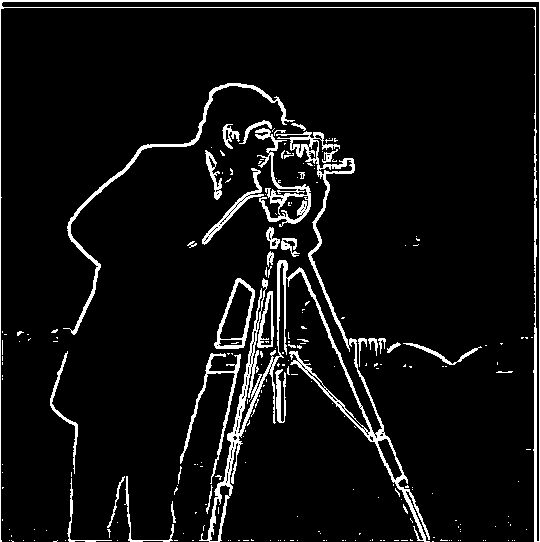
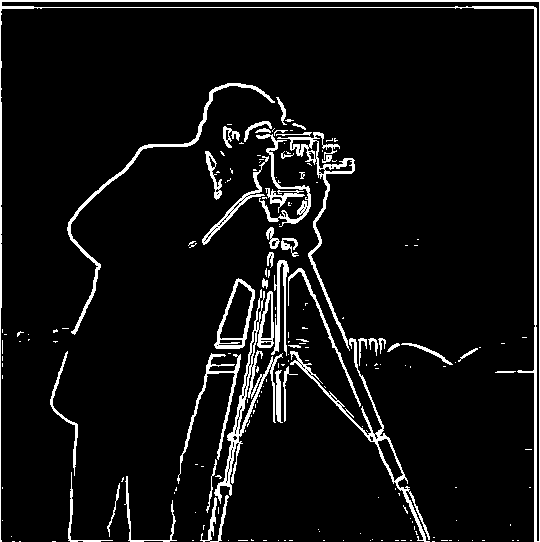
1.3

diff --git a/2/index.html b/2/index.html
@@ -168,7 +168,7 @@
         </div>
         <div class="image-grid">
             <figure>
-                <img src="./media/1.1/img1.png" alt="selfie">
+                <img src="./media/1.1/img1.3.png" alt="selfie">
                 <figcaption>Original selfie</figcaption>
             </figure>
             <figure>
@@ -315,37 +315,58 @@
         <script>Prism.highlightAll();</script>
 
 
-
-
-
-
-
-
-
     </section>
 
     <section class="section">
-        <h2>Part 1.2</h2>
+        <h2>Part 1.2:Finite Difference Operator</h2>
         <div class="desc">
-            Selfie: The Wrong Way <strong>vs.</strong> The Right Way 
+            We read the image of cameraman, and than convolve it with the finite difference operator to get the gradient image.
         </div>
         <div class="image-grid">
             <figure>
-                <img src="./media/img1.png" alt="selfies">
-                <figcaption>comparison of selfie from different distance</figcaption>
+                <img src="./media/1.2/cameraman.png" alt="cameraman">
+                <figcaption>Original cameraman image</figcaption>
+            </figure>
+            <figure>
+                <img src="./media/1.2/dx_dog.png" alt="dx_dog">
+                <figcaption>horizontal derivative image</figcaption>
+            </figure>
+            <figure>
+                <img src="./media/1.2/dy_dog.png" alt="dy_dog">
+                <figcaption>vertical derivative image</figcaption>
+            </figure>
+        </div>
+        <div class="desc">
+            Then calculate 'sqrt(dx^2 + dy^2)' to get the gradient magnitude image. 
+            I also made a binarized image by thresholding the gradient magnitude image.
+        </div>
+        <div class="image-grid">
+            <figure>
+                <img src="./media/1.2/gradient_magnitude.png" alt="gradient_magnitude">
+                <figcaption>Gradient magnitude image</figcaption>
+            </figure>
+            <figure>
+                <img src="./media/1.2/binary_edges.png" alt="binarized">
+                <figcaption>Binarized image (Threshold = 0.25)</figcaption>
             </figure>
         </div>
     </section>
 
     <section class="section">
-        <h2>Part 1.3</h2>
+        <h2>Part 1.3: Derivative of Gaussian (DoG) Filter</h2>
         <div class="desc">
-            Selfie: The Wrong Way <strong>vs.</strong> The Right Way 
+            Firstly, we blur the image with Gaussian filter G created by convloving two 1D Gaussian filters. 
+            Then, we calculate the horizontal and vertical derivatives of the blurred image, and get the gradient magnitude image. 
+            Finally, we binarize the gradient magnitude image by thresholding.
         </div>
         <div class="image-grid">
             <figure>
-                <img src="./media/img1.png" alt="selfies">
-                <figcaption>comparison of selfie from different distance</figcaption>
+                <img src="./media/1.3/mag_dog.png" alt="mag_dog">
+                <figcaption>Gradient magnitude of blurred image </figcaption>
+            </figure>
+            <figure>
+                <img src="./media/1.3/binary_edges.png" alt="binarized">
+                <figcaption>Binarized image (Threshold = 0.09)</figcaption>
             </figure>
         </div>
     </section>
